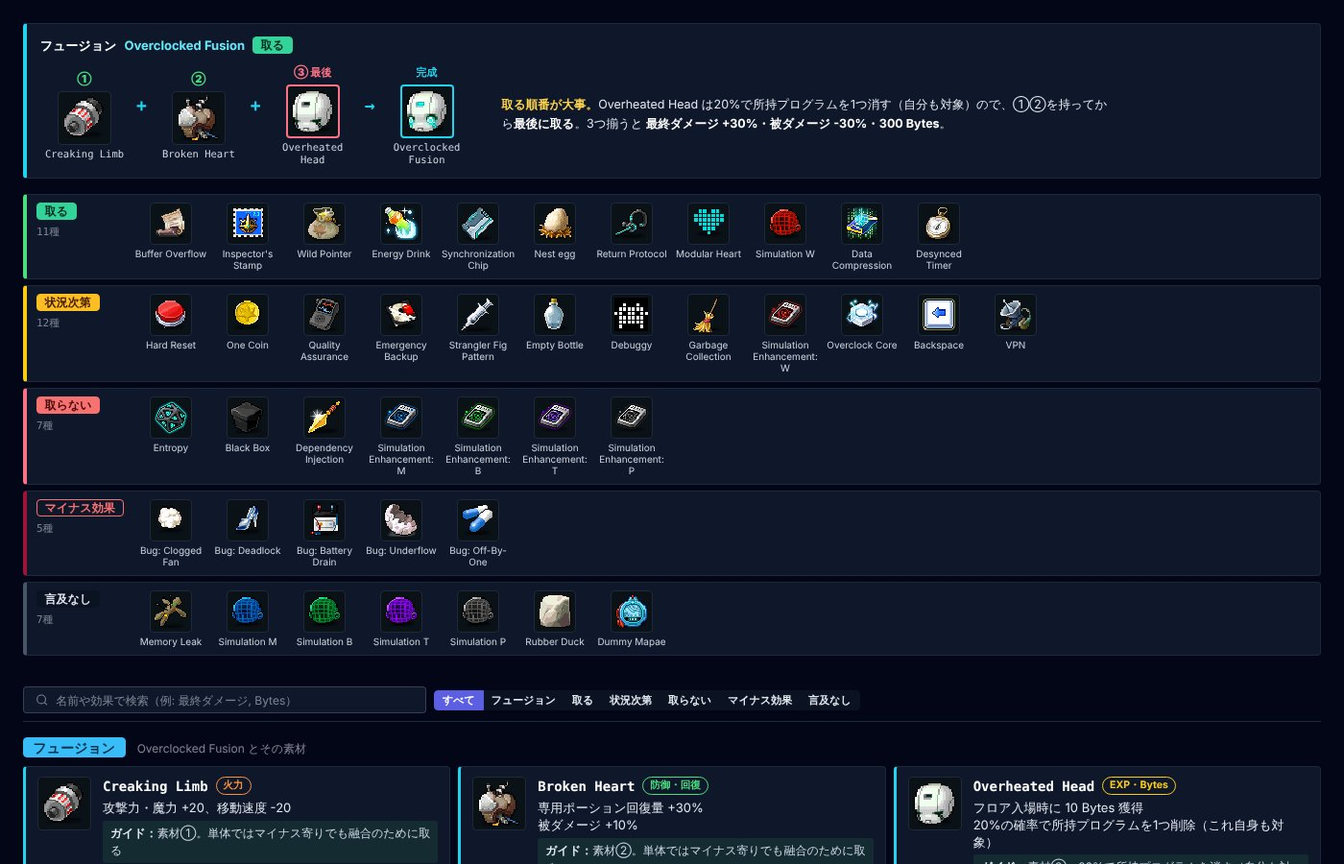
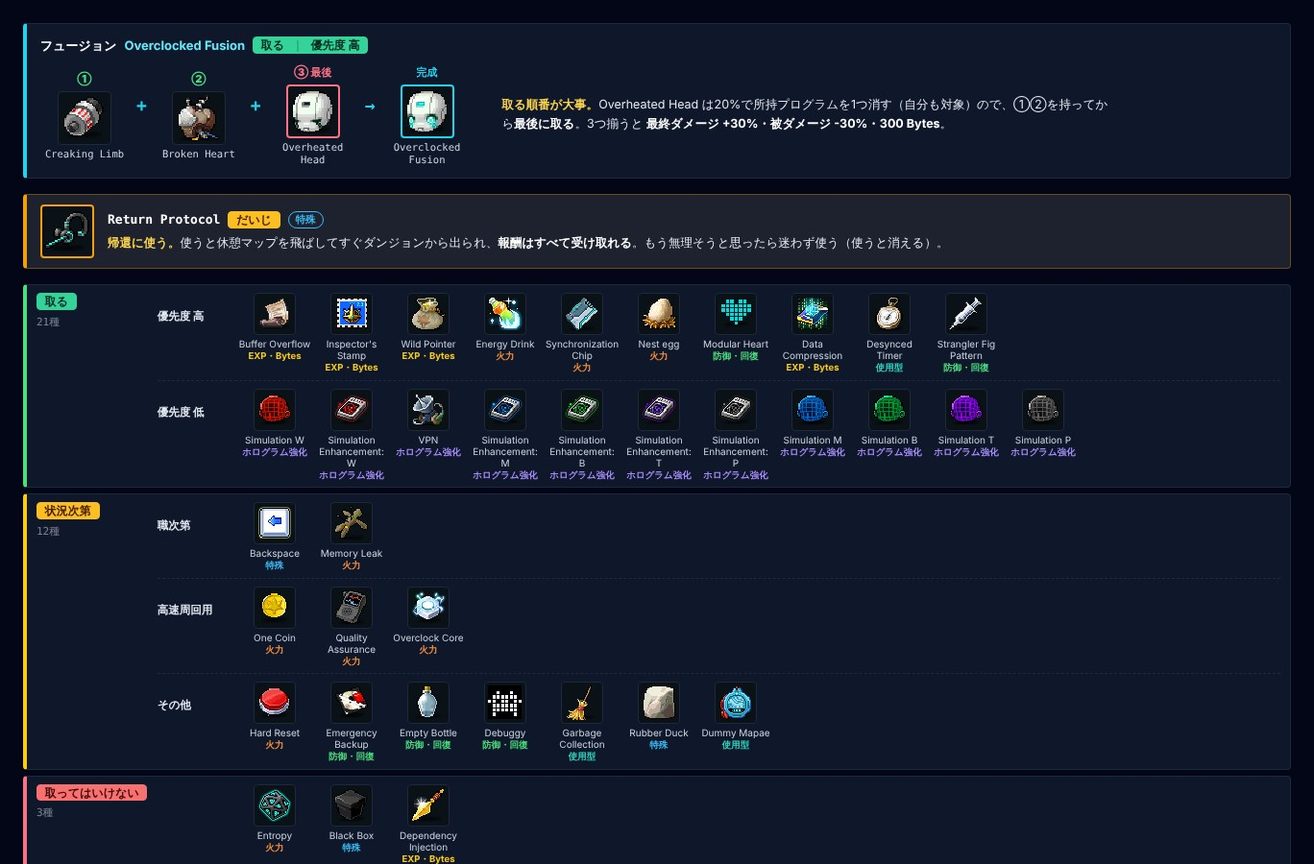
Quanah Tools バトルシム: 分類を bi 指定に組み替え、系統タグを一覧に、Return Protocol を別枠に
- 取る（優先度 高・低）／状況次第（職次第・高速周回用・その他）／取ってはいけない／マイナス効果。言及なしの段は廃止
- 上の一覧のアイコンの下に系統タグ。ホログラム→ホログラム強化、特殊・使用型を 特殊／使用型 に分け、使用型は Dummy Mapae・Garbage Collection・Desynced Timer だけ
- Return Protocol は帰還に使うので、フュージョンの下に「だいじ」枠で表示
- 狭い画面では段の見出しを上に。Guide の説明とスクショ 19、README を更新

Claude-Session: https://claude.ai/code/session_01VfuuungApVwhHvPPZNJUXm

diff --git a/public/libae_battlesim.js b/public/libae_battlesim.js
@@ -1,73 +1,87 @@
 /**
  * Quanah Tools の「バトルシム」タブ: Quanah のダンジョン Battlesim で手に入るプログラム全46種の図鑑。
- * bi の単体版「Quanah バトルシム プログラム図鑑」（2026-11-16）を移植。評価は Shapaz さんのダンジョン解説動画（Quanah ガイドまとめ 3章）、
+ * bi の単体版「Quanah バトルシム プログラム図鑑」（2026-11-16）を移植。分類は bi の判断（2026-11-17）、カードのガイド欄は Shapaz さんのダンジョン解説動画（Quanah ガイドまとめ 3章）、
  * アイコンと効果は masonym.dev の Quanah データ（GMS クライアントから抽出、2026-11-15 版）。名前は GMS の英語表記のまま。
  * アイコンは public/assets/libae/battlesim/<icon>.png。
  */
 const libaeBattlesim = (() => {
-    // v = 評価（fus フュージョン素材／take 取る／cond 状況次第／avoid 取らない／bug マイナス効果／none 言及なし）
-    // cat = 種類（atk 火力／def 防御・回復／holo ホログラム／res EXP・Bytes／util 特殊・使用型／bug バグ）
+    // v = 分類（2026-11-17 bi 指定）。fus フュージョン素材／key だいじ（Return Protocol、上に別枠）／
+    //     取る: hi 優先度 高・lo 優先度 低／状況次第: job 職次第・speed 高速周回用・other その他／avoid 取ってはいけない／bug マイナス効果
+    // cat = 系統（atk 火力／def 防御・回復／holo ホログラム強化／res EXP・Bytes／util 特殊／use 使用型（使うと消費。Dummy Mapae・Garbage Collection・Desynced Timer だけ、bi 確認）／bug バグ）
     // gc = ガイドの評価、note = 元の一覧と値が違う項目の注記、tip = ゲーム内のツールチップ名
     const PROGRAMS = [
         {"v": "fus", "name": "Creaking Limb", "icon": "creaking-limb", "cat": "atk", "eff": ["攻撃力・魔力 +20、移動速度 -20"], "gc": "素材①。単体ではマイナス寄りでも融合のために取る", "note": "手元の一覧では +10（+20表記あり）。データは +20"},
         {"v": "fus", "name": "Broken Heart", "icon": "broken-heart", "cat": "def", "eff": ["専用ポーション回復量 +30%", "被ダメージ +10%"], "gc": "素材②。単体ではマイナス寄りでも融合のために取る"},
         {"v": "fus", "name": "Overheated Head", "icon": "overheated-head", "cat": "res", "eff": ["フロア入場時に 10 Bytes 獲得", "20%の確率で所持プログラムを1つ削除（これ自身も対象）"], "gc": "素材③。20%で所持プログラムを消す（自分も対象）ので必ず最後に取る"},
         {"v": "fus", "name": "Overclocked Fusion", "icon": "overclocked-fusion", "cat": "res", "eff": ["被ダメージ -30%、最終ダメージ +30%", "入手時に 300 Bytes 獲得"], "gc": "素材3つが揃うと自動で手に入る"},
-        {"v": "take", "name": "Buffer Overflow", "icon": "buffer-overflow", "cat": "res", "eff": ["まだ持っていないプログラムを入手するたびに 20 / 30 / 50 Bytes 獲得"], "gc": "Bytes収入系。序盤の最優先。ショップやボス後のルートルームでオーブなどを買えるかがBytesの育ち方で決まる"},
-        {"v": "take", "name": "Inspector's Stamp", "icon": "inspector-s-stamp", "cat": "res", "eff": ["獲得Bytes +30 / 50 / 100%"], "gc": "Bytes収入系。序盤の最優先"},
-        {"v": "take", "name": "Wild Pointer", "icon": "wild-pointer", "cat": "res", "eff": ["入手時に即 50 Bytes 獲得", "一度所持すると再出現しない"], "gc": "取得時にBytesが入る系。序盤の最優先枠"},
-        {"v": "take", "name": "Energy Drink", "icon": "energy-drink", "cat": "atk", "eff": ["フロア入場時、10秒間 攻撃力・魔力 +100%"], "gc": "序盤では最強クラス。フロアに入った瞬間に敵を吹き飛ばせる。バフ持続時間が長いキャラほど強い"},
-        {"v": "take", "name": "Synchronization Chip", "icon": "synchronization-chip", "cat": "atk", "eff": ["現在のセクター数1つにつき最終ダメージ +4%（最大10セクター分）"], "gc": "最終ダメージが付く系。見たら取って損なし"},
-        {"v": "take", "name": "Nest egg", "icon": "nest-egg", "cat": "atk", "eff": ["所持Bytes 70ごとに最終ダメージ +3%（最大20回）"], "gc": "1,400 Bytesで最大+60%。後半フロアの本命。Bytes収入系とセットで真価を発揮"},
-        {"v": "take", "name": "Return Protocol", "icon": "return-protocol", "cat": "util", "eff": ["使用すると休憩マップを飛ばして即座にダンジョンから退出できる", "報酬はすべて受け取れる。使用すると消える"], "gc": "いつでも離脱して戦利品を持ち帰れる保険。もう無理そうと思ったら迷わず使う", "note": "手元の一覧では特殊アイテム扱い。データ上はプログラム（使用型）"},
-        {"v": "take", "name": "Modular Heart", "icon": "modular-heart", "cat": "def", "eff": ["被ダメージ -3 / 6 / 9 / 12%"], "gc": "ユーザー判断で「取る」に分類（ガイドでの言及なし）"},
-        {"v": "take", "name": "Simulation W", "icon": "simulation-w", "cat": "holo", "eff": ["ホログラムスキルで攻撃時、投影された戦士が [Hologram] Worldreaver を使用し [Hologram] Format を発動", "投影の Format からも [Hologram] Defrag が発動可能"], "gc": "ユーザー判断で「取る」に分類（ガイドでの言及なし）。Type系の投影は互いに上書きされるので、投影は1種に絞る", "tip": "Type-W Projection"},
-        {"v": "take", "name": "Data Compression", "icon": "data-compression", "cat": "res", "eff": ["獲得EXP +10 / 20 / 30 / 40%"], "gc": "ユーザー判断で「取る」に分類（ガイドでの言及なし）", "note": "手元の一覧の +10% は1段階目の値"},
-        {"v": "take", "name": "Desynced Timer", "icon": "desynced-timer", "cat": "util", "eff": ["5次以下のスキルのクールタイムをリセット", "使用するたびに1つ消費"], "gc": "ユーザー判断で「取る」に分類（ガイドでの言及なし）", "note": "手元の一覧では「コード」として別枠。データ上はプログラム（使用型）"},
-        {"v": "cond", "name": "Hard Reset", "icon": "hard-reset", "cat": "atk", "eff": ["入手した瞬間に、その時点の所持プログラムをすべて削除", "削除した数1つにつき最終ダメージ +5%（再入手すると再発動）"], "gc": "所持数×最終ダメージ+5%（19個なら+95%）。取り直せるので深く潜るランほど強い。中くらいのフロアで切り上げるなら不要"},
-        {"v": "cond", "name": "One Coin", "icon": "one-coin", "cat": "atk", "eff": ["最大HPが50%に固定される代わりに最終ダメージ +30%"], "gc": "強いがリスクも大きい。スペックに余裕が出てから"},
-        {"v": "cond", "name": "Quality Assurance", "icon": "quality-assurance", "cat": "atk", "eff": ["被弾しない時間10秒ごとに最終ダメージ +3%（最大5スタック）", "被弾でリセット"], "gc": "被弾しなければ最終ダメージが伸びる系。状況次第で可", "note": "手元の一覧では最大Lv3。データ上は重ね取りの段階値なし"},
-        {"v": "cond", "name": "Emergency Backup", "icon": "emergency-backup", "cat": "def", "eff": ["HPが30%を切ると最大HPの 20 / 30 / 70% を即回復", "クールタイム 120秒"], "gc": "回復系。継戦がきついときに", "note": "手元の一覧では回復量20%のみ。データでは重ね取りで 20/30/70%"},
-        {"v": "cond", "name": "Strangler Fig Pattern", "icon": "strangler-fig-pattern", "cat": "def", "eff": ["モンスター撃破時、20 / 40 / 60% の確率でHPを5%回復"], "gc": "回復系。継戦がきついときに", "note": "手元の一覧では「10%で3%回復」。データは 20/40/60% で5%回復"},
-        {"v": "cond", "name": "Empty Bottle", "icon": "empty-bottle", "cat": "def", "eff": ["専用ポーション回復量 +90%"], "gc": "回復系。継戦がきついときに", "note": "手元の一覧では「回復量が40%に」。データは回復量 +90%"},
-        {"v": "cond", "name": "Debuggy", "icon": "debuggy", "cat": "def", "eff": ["死亡時にHP100%で復活", "発動すると消える"], "gc": "死亡時のクッション系。状況次第で可"},
-        {"v": "cond", "name": "Garbage Collection", "icon": "garbage-collection", "cat": "util", "eff": ["10秒間無敵", "使用すると消費"], "gc": "無敵化系は「ボスで苦戦するときの保険」くらいの評価", "note": "手元の一覧では「コード」として別枠。データ上はプログラム（使用型）"},
-        {"v": "cond", "name": "Simulation Enhancement: W", "icon": "simulation-enhancement-w", "cat": "holo", "eff": ["投影戦士の [Hologram] Worldreaver ダメージ +10 / 20 / 30%"], "gc": "Jailbreak系は優先度最下位クラスだが、大範囲の戦士タイプ（Type-W）だけは例外的にまだマシ", "tip": "Type-W Jailbreak"},
-        {"v": "cond", "name": "Overclock Core", "icon": "overclock-core", "cat": "atk", "eff": ["最終ダメージ +8 / 10 / 12%", "被ダメージ +5 / 10 / 15%"], "gc": "ユーザー判断で「状況次第」に分類（ガイドでの言及なし）"},
-        {"v": "cond", "name": "Backspace", "icon": "backspace", "cat": "util", "eff": ["10 / 20 / 30% の確率でスキルのクールタイムが即リセット"], "gc": "ユーザー判断で「状況次第」に分類（ガイドでの言及なし）"},
-        {"v": "cond", "name": "VPN", "icon": "vpn", "cat": "holo", "eff": ["[Hologram] Registry の再付着時間 -1 / 2 / 3秒"], "gc": "ユーザー判断で「状況次第」に分類（ガイドでの言及なし）", "note": "手元の一覧の -1.0秒は1段階目の値。重ね取りで -2 / -3秒"},
+        {"v": "hi", "name": "Buffer Overflow", "icon": "buffer-overflow", "cat": "res", "eff": ["まだ持っていないプログラムを入手するたびに 20 / 30 / 50 Bytes 獲得"], "gc": "Bytes収入系。序盤の最優先。ショップやボス後のルートルームでオーブなどを買えるかがBytesの育ち方で決まる"},
+        {"v": "hi", "name": "Inspector's Stamp", "icon": "inspector-s-stamp", "cat": "res", "eff": ["獲得Bytes +30 / 50 / 100%"], "gc": "Bytes収入系。序盤の最優先"},
+        {"v": "hi", "name": "Wild Pointer", "icon": "wild-pointer", "cat": "res", "eff": ["入手時に即 50 Bytes 獲得", "一度所持すると再出現しない"], "gc": "取得時にBytesが入る系。序盤の最優先枠"},
+        {"v": "hi", "name": "Energy Drink", "icon": "energy-drink", "cat": "atk", "eff": ["フロア入場時、10秒間 攻撃力・魔力 +100%"], "gc": "序盤では最強クラス。フロアに入った瞬間に敵を吹き飛ばせる。バフ持続時間が長いキャラほど強い"},
+        {"v": "hi", "name": "Synchronization Chip", "icon": "synchronization-chip", "cat": "atk", "eff": ["現在のセクター数1つにつき最終ダメージ +4%（最大10セクター分）"], "gc": "最終ダメージが付く系。見たら取って損なし"},
+        {"v": "hi", "name": "Nest egg", "icon": "nest-egg", "cat": "atk", "eff": ["所持Bytes 70ごとに最終ダメージ +3%（最大20回）"], "gc": "1,400 Bytesで最大+60%。後半フロアの本命。Bytes収入系とセットで真価を発揮"},
+        {"v": "key", "name": "Return Protocol", "icon": "return-protocol", "cat": "util", "eff": ["使用すると休憩マップを飛ばして即座にダンジョンから退出できる", "報酬はすべて受け取れる。使用すると消える"], "gc": "帰還用。いつでも離脱して戦利品を持ち帰れる保険。もう無理そうと思ったら迷わず使う", "note": "手元の一覧では特殊アイテム扱い。データ上はプログラム"},
+        {"v": "hi", "name": "Modular Heart", "icon": "modular-heart", "cat": "def", "eff": ["被ダメージ -3 / 6 / 9 / 12%"], "gc": "ユーザー判断で「取る」に分類（ガイドでの言及なし）"},
+        {"v": "lo", "name": "Simulation W", "icon": "simulation-w", "cat": "holo", "eff": ["ホログラムスキルで攻撃時、投影された戦士が [Hologram] Worldreaver を使用し [Hologram] Format を発動", "投影の Format からも [Hologram] Defrag が発動可能"], "gc": "ユーザー判断で「取る（優先度 低）」に分類（ガイドでの言及なし）。Type系の投影は互いに上書きされるので、投影は1種に絞る", "tip": "Type-W Projection"},
+        {"v": "hi", "name": "Data Compression", "icon": "data-compression", "cat": "res", "eff": ["獲得EXP +10 / 20 / 30 / 40%"], "gc": "ユーザー判断で「取る」に分類（ガイドでの言及なし）", "note": "手元の一覧の +10% は1段階目の値"},
+        {"v": "hi", "name": "Desynced Timer", "icon": "desynced-timer", "cat": "use", "eff": ["5次以下のスキルのクールタイムをリセット", "使用するたびに1つ消費"], "gc": "ユーザー判断で「取る」に分類（ガイドでの言及なし）", "note": "手元の一覧では「コード」として別枠。データ上はプログラム（使用型）"},
+        {"v": "other", "name": "Hard Reset", "icon": "hard-reset", "cat": "atk", "eff": ["入手した瞬間に、その時点の所持プログラムをすべて削除", "削除した数1つにつき最終ダメージ +5%（再入手すると再発動）"], "gc": "所持数×最終ダメージ+5%（19個なら+95%）。取り直せるので深く潜るランほど強い。中くらいのフロアで切り上げるなら不要"},
+        {"v": "speed", "name": "One Coin", "icon": "one-coin", "cat": "atk", "eff": ["最大HPが50%に固定される代わりに最終ダメージ +30%"], "gc": "強いがリスクも大きい。スペックに余裕が出てから"},
+        {"v": "speed", "name": "Quality Assurance", "icon": "quality-assurance", "cat": "atk", "eff": ["被弾しない時間10秒ごとに最終ダメージ +3%（最大5スタック）", "被弾でリセット"], "gc": "被弾しなければ最終ダメージが伸びる系。状況次第で可", "note": "手元の一覧では最大Lv3。データ上は重ね取りの段階値なし"},
+        {"v": "other", "name": "Emergency Backup", "icon": "emergency-backup", "cat": "def", "eff": ["HPが30%を切ると最大HPの 20 / 30 / 70% を即回復", "クールタイム 120秒"], "gc": "回復系。継戦がきついときに", "note": "手元の一覧では回復量20%のみ。データでは重ね取りで 20/30/70%"},
+        {"v": "hi", "name": "Strangler Fig Pattern", "icon": "strangler-fig-pattern", "cat": "def", "eff": ["モンスター撃破時、20 / 40 / 60% の確率でHPを5%回復"], "gc": "回復系。ガイドでは「継戦がきついときに」だが、ユーザー判断で「取る（優先度 高）」に分類", "note": "手元の一覧では「10%で3%回復」。データは 20/40/60% で5%回復"},
+        {"v": "other", "name": "Empty Bottle", "icon": "empty-bottle", "cat": "def", "eff": ["専用ポーション回復量 +90%"], "gc": "回復系。継戦がきついときに", "note": "手元の一覧では「回復量が40%に」。データは回復量 +90%"},
+        {"v": "other", "name": "Debuggy", "icon": "debuggy", "cat": "def", "eff": ["死亡時にHP100%で復活", "発動すると消える"], "gc": "死亡時のクッション系。状況次第で可"},
+        {"v": "other", "name": "Garbage Collection", "icon": "garbage-collection", "cat": "use", "eff": ["10秒間無敵", "使用すると消費"], "gc": "無敵化系は「ボスで苦戦するときの保険」くらいの評価", "note": "手元の一覧では「コード」として別枠。データ上はプログラム（使用型）"},
+        {"v": "lo", "name": "Simulation Enhancement: W", "icon": "simulation-enhancement-w", "cat": "holo", "eff": ["投影戦士の [Hologram] Worldreaver ダメージ +10 / 20 / 30%"], "gc": "Jailbreak系は優先度最下位クラスだが、大範囲の戦士タイプ（Type-W）だけは例外的にまだマシ", "tip": "Type-W Jailbreak"},
+        {"v": "speed", "name": "Overclock Core", "icon": "overclock-core", "cat": "atk", "eff": ["最終ダメージ +8 / 10 / 12%", "被ダメージ +5 / 10 / 15%"], "gc": "ユーザー判断で分類（ガイドでの言及なし）"},
+        {"v": "job", "name": "Backspace", "icon": "backspace", "cat": "util", "eff": ["10 / 20 / 30% の確率でスキルのクールタイムが即リセット"], "gc": "ユーザー判断で分類（ガイドでの言及なし）"},
+        {"v": "lo", "name": "VPN", "icon": "vpn", "cat": "holo", "eff": ["[Hologram] Registry の再付着時間 -1 / 2 / 3秒"], "gc": "ユーザー判断で「取る（優先度 低）」に分類（ガイドでの言及なし）", "note": "手元の一覧の -1.0秒は1段階目の値。重ね取りで -2 / -3秒"},
         {"v": "avoid", "name": "Entropy", "icon": "entropy", "cat": "atk", "eff": ["最終ダメージ +50%", "フロア入場時、30%の確率で [Disorder] が1スタック", "[Disorder] が3スタックになるとダンジョンから自動退出"], "gc": "フロアに入るたび30%でスタックが溜まり、3つで強制退出。死亡扱いではないので復活系も効かない"},
         {"v": "avoid", "name": "Black Box", "icon": "black-box", "cat": "util", "eff": ["入手した瞬間にランダムなプログラムを3つ獲得し、所持プログラムからランダムに2つ削除（再入手すると再発動）"], "gc": "3つもらえる代わりに自分のプログラムが2つ消える。大事なものを消されるリスクが見合わない"},
         {"v": "avoid", "name": "Dependency Injection", "icon": "dependency-injection", "cat": "res", "eff": ["フロア入場時に 50 Bytes を消費し、次のどちらかを得る", "・アイテムドロップ率 +40%、獲得EXP +10%", "・獲得EXP +40%、アイテムドロップ率 +10%", "Bytesが足りないと発動しない"], "gc": "毎フロア50 Bytes払う系。序盤は厳禁。ルートルームで買い物するBytesが足りなくなる。収入が育った後半向け"},
-        {"v": "avoid", "name": "Simulation Enhancement: M", "icon": "simulation-enhancement-m", "cat": "holo", "eff": ["投影魔法使いの [Hologram] Bolt Barrage ダメージ +10 / 20 / 30%"], "gc": "Jailbreak系（ホログラム投影の強化）。火力が低く優先度は最下位クラス", "tip": "Type-M Jailbreak"},
-        {"v": "avoid", "name": "Simulation Enhancement: B", "icon": "simulation-enhancement-b", "cat": "holo", "eff": ["投影弓使いの [Hologram] Ultimate Snipe ダメージ +10 / 20 / 30%"], "gc": "Jailbreak系。火力が低く優先度は最下位クラス", "tip": "Type-B Jailbreak"},
-        {"v": "avoid", "name": "Simulation Enhancement: T", "icon": "simulation-enhancement-t", "cat": "holo", "eff": ["投影盗賊の [Hologram] Shurrikane ダメージ +10 / 20 / 30%"], "gc": "Jailbreak系。火力が低く優先度は最下位クラス", "tip": "Type-T Jailbreak"},
-        {"v": "avoid", "name": "Simulation Enhancement: P", "icon": "simulation-enhancement-p", "cat": "holo", "eff": ["投影海賊の [Hologram] Rolling Rainbow ダメージ +10 / 20 / 30%"], "gc": "Jailbreak系。火力が低く優先度は最下位クラス", "tip": "Type-P Jailbreak"},
+        {"v": "lo", "name": "Simulation Enhancement: M", "icon": "simulation-enhancement-m", "cat": "holo", "eff": ["投影魔法使いの [Hologram] Bolt Barrage ダメージ +10 / 20 / 30%"], "gc": "Jailbreak系（ホログラム投影の強化）。ガイドでは火力が低く優先度は最下位クラスだが、ユーザー判断で「取る（優先度 低）」に分類", "tip": "Type-M Jailbreak"},
+        {"v": "lo", "name": "Simulation Enhancement: B", "icon": "simulation-enhancement-b", "cat": "holo", "eff": ["投影弓使いの [Hologram] Ultimate Snipe ダメージ +10 / 20 / 30%"], "gc": "Jailbreak系。ガイドでは優先度最下位クラス。ユーザー判断で「取る（優先度 低）」に分類", "tip": "Type-B Jailbreak"},
+        {"v": "lo", "name": "Simulation Enhancement: T", "icon": "simulation-enhancement-t", "cat": "holo", "eff": ["投影盗賊の [Hologram] Shurrikane ダメージ +10 / 20 / 30%"], "gc": "Jailbreak系。ガイドでは優先度最下位クラス。ユーザー判断で「取る（優先度 低）」に分類", "tip": "Type-T Jailbreak"},
+        {"v": "lo", "name": "Simulation Enhancement: P", "icon": "simulation-enhancement-p", "cat": "holo", "eff": ["投影海賊の [Hologram] Rolling Rainbow ダメージ +10 / 20 / 30%"], "gc": "Jailbreak系。ガイドでは優先度最下位クラス。ユーザー判断で「取る（優先度 低）」に分類", "tip": "Type-P Jailbreak"},
         {"v": "bug", "name": "Bug: Clogged Fan", "icon": "bug-clogged-fan", "cat": "bug", "eff": ["最終ダメージ -5%"]},
         {"v": "bug", "name": "Bug: Deadlock", "icon": "bug-deadlock", "cat": "bug", "eff": ["移動速度 -20"], "tip": "Bug: Glass Slippers"},
         {"v": "bug", "name": "Bug: Battery Drain", "icon": "bug-battery-drain", "cat": "bug", "eff": ["獲得EXP -20%"], "tip": "Bug: Empty Battery"},
         {"v": "bug", "name": "Bug: Underflow", "icon": "bug-underflow", "cat": "bug", "eff": ["獲得Bytes -20%"], "tip": "Bug: Goose Egg"},
         {"v": "bug", "name": "Bug: Off-By-One", "icon": "bug-off-by-one", "cat": "bug", "eff": ["選べるプログラムの数 -1"], "tip": "Bug: Blue Pill"},
-        {"v": "none", "name": "Memory Leak", "icon": "memory-leak", "cat": "atk", "eff": ["所持プログラム1つにつき最終ダメージ +1%（最大20）", "10秒ごとに最大HPの3%が減少"]},
-        {"v": "none", "name": "Simulation M", "icon": "simulation-m", "cat": "holo", "eff": ["ホログラムスキルで攻撃時、投影された魔法使いが [Hologram] Bolt Barrage を使用し [Hologram] Format を発動", "投影の Format からも [Hologram] Defrag が発動可能"], "gc": "ガイドでの言及なし。Type系の投影は互いに上書きされるので全部は集められない", "tip": "Type-M Projection"},
-        {"v": "none", "name": "Simulation B", "icon": "simulation-b", "cat": "holo", "eff": ["ホログラムスキルで攻撃時、投影された弓使いが [Hologram] Ultimate Snipe を使用し [Hologram] Format を発動", "投影の Format からも [Hologram] Defrag が発動可能"], "gc": "ガイドでの言及なし。Type系の投影は互いに上書きされるので全部は集められない", "tip": "Type-B Projection"},
-        {"v": "none", "name": "Simulation T", "icon": "simulation-t", "cat": "holo", "eff": ["ホログラムスキルで攻撃時、投影された盗賊が [Hologram] Shurrikane を使用し [Hologram] Format を発動", "投影の Format からも [Hologram] Defrag が発動可能"], "gc": "ガイドでの言及なし。Type系の投影は互いに上書きされるので全部は集められない", "tip": "Type-T Projection"},
-        {"v": "none", "name": "Simulation P", "icon": "simulation-p", "cat": "holo", "eff": ["ホログラムスキルで攻撃時、投影された海賊が [Hologram] Rolling Rainbow を使用し [Hologram] Format を発動", "投影の Format からも [Hologram] Defrag が発動可能"], "gc": "ガイドでの言及なし。Type系の投影は互いに上書きされるので全部は集められない", "tip": "Type-P Projection"},
-        {"v": "none", "name": "Rubber Duck", "icon": "rubber-duck", "cat": "util", "eff": ["効果は一切なし"], "note": "手元の一覧ではコード枠にも同名あり。データ上はプログラム1種のみ"},
-        {"v": "none", "name": "Dummy Mapae", "icon": "dummy-mapae", "cat": "util", "eff": ["命中した敵を5秒間スタン", "ボスを含め15体まで適用。使用すると消費"]},
+        {"v": "job", "name": "Memory Leak", "icon": "memory-leak", "cat": "atk", "eff": ["所持プログラム1つにつき最終ダメージ +1%（最大20）", "10秒ごとに最大HPの3%が減少"]},
+        {"v": "lo", "name": "Simulation M", "icon": "simulation-m", "cat": "holo", "eff": ["ホログラムスキルで攻撃時、投影された魔法使いが [Hologram] Bolt Barrage を使用し [Hologram] Format を発動", "投影の Format からも [Hologram] Defrag が発動可能"], "gc": "ユーザー判断で「取る（優先度 低）」に分類（ガイドでの言及なし）。Type系の投影は互いに上書きされるので全部は集められない", "tip": "Type-M Projection"},
+        {"v": "lo", "name": "Simulation B", "icon": "simulation-b", "cat": "holo", "eff": ["ホログラムスキルで攻撃時、投影された弓使いが [Hologram] Ultimate Snipe を使用し [Hologram] Format を発動", "投影の Format からも [Hologram] Defrag が発動可能"], "gc": "ユーザー判断で「取る（優先度 低）」に分類（ガイドでの言及なし）。Type系の投影は互いに上書きされるので全部は集められない", "tip": "Type-B Projection"},
+        {"v": "lo", "name": "Simulation T", "icon": "simulation-t", "cat": "holo", "eff": ["ホログラムスキルで攻撃時、投影された盗賊が [Hologram] Shurrikane を使用し [Hologram] Format を発動", "投影の Format からも [Hologram] Defrag が発動可能"], "gc": "ユーザー判断で「取る（優先度 低）」に分類（ガイドでの言及なし）。Type系の投影は互いに上書きされるので全部は集められない", "tip": "Type-T Projection"},
+        {"v": "lo", "name": "Simulation P", "icon": "simulation-p", "cat": "holo", "eff": ["ホログラムスキルで攻撃時、投影された海賊が [Hologram] Rolling Rainbow を使用し [Hologram] Format を発動", "投影の Format からも [Hologram] Defrag が発動可能"], "gc": "ユーザー判断で「取る（優先度 低）」に分類（ガイドでの言及なし）。Type系の投影は互いに上書きされるので全部は集められない", "tip": "Type-P Projection"},
+        {"v": "other", "name": "Rubber Duck", "icon": "rubber-duck", "cat": "util", "eff": ["効果は一切なし"], "note": "手元の一覧ではコード枠にも同名あり。データ上はプログラム1種のみ"},
+        {"v": "other", "name": "Dummy Mapae", "icon": "dummy-mapae", "cat": "use", "eff": ["命中した敵を5秒間スタン", "ボスを含め15体まで適用。使用すると消費"]},
     ];
+    // 分類。group は上の大きな区分（取る／状況次第）、sub はその中の小区分。
     const VERDICTS = [
         { id: 'fus', label: 'フュージョン', badge: 'badge-info', border: '#22d3ee', meta: 'Overclocked Fusion とその素材' },
-        { id: 'take', label: '取る', badge: 'badge-success', border: '#4ade80', meta: 'ガイドが優先して取りたいとしているもの' },
-        { id: 'cond', label: '状況次第', badge: 'badge-warning', border: '#facc15', meta: '条件が合えば取る。ガイドの評価は「状況次第で可」' },
-        { id: 'avoid', label: '取らない', badge: 'badge-error', border: '#fb7185', meta: 'ガイドが避けた方がいいとしているもの' },
-        { id: 'bug', label: 'マイナス効果', badge: 'badge-error badge-outline', border: '#9f1239', meta: '効果がマイナスだけのバグ枠。ガイドでの言及はなし' },
-        { id: 'none', label: '言及なし', badge: 'badge-ghost', border: '#475569', meta: 'ガイドで評価されていないもの。効果だけ載せています' },
+        { id: 'key', label: 'だいじ', badge: 'badge-warning', border: '#f59e0b', meta: '帰還に使う。いつでも取れるように' },
+        { id: 'hi', group: 'take', sub: '優先度 高', label: '取る', badge: 'badge-success', border: '#4ade80', meta: '見たら取る' },
+        { id: 'lo', group: 'take', sub: '優先度 低', label: '取る', badge: 'badge-success badge-soft', border: '#4ade80', meta: '取れるなら取る。上の「高」を優先' },
+        { id: 'job', group: 'cond', sub: '職次第', label: '状況次第', badge: 'badge-warning badge-soft', border: '#facc15', meta: '職業によって強さが変わる' },
+        { id: 'speed', group: 'cond', sub: '高速周回用', label: '状況次第', badge: 'badge-warning badge-soft', border: '#facc15', meta: '火力が足りていて速く回したいとき' },
+        { id: 'other', group: 'cond', sub: 'その他', label: '状況次第', badge: 'badge-warning badge-soft', border: '#facc15', meta: '必要に応じて' },
+        { id: 'avoid', label: '取ってはいけない', badge: 'badge-error', border: '#fb7185', meta: '取ると損をするもの' },
+        { id: 'bug', label: 'マイナス効果', badge: 'badge-error badge-outline', border: '#9f1239', meta: '効果がマイナスだけのバグ枠' },
     ];
     const VMAP = Object.fromEntries(VERDICTS.map((v) => [v.id, v]));
+    // 絞り込みボタンと上の一覧の段。取る・状況次第は小区分をまとめて1つ
+    const GROUPS = [
+        { id: 'fus', label: 'フュージョン', vs: ['fus'] },
+        { id: 'take', label: '取る', vs: ['hi', 'lo'] },
+        { id: 'cond', label: '状況次第', vs: ['job', 'speed', 'other'] },
+        { id: 'avoid', label: '取ってはいけない', vs: ['avoid'] },
+        { id: 'bug', label: 'マイナス効果', vs: ['bug'] },
+    ];
+    const groupOf = (v) => (GROUPS.find((g) => g.vs.includes(v)) || { id: v }).id;
     const CATS = {
-        atk: { label: '火力', color: '#fb923c' }, def: { label: '防御・回復', color: '#4ade80' }, holo: { label: 'ホログラム', color: '#a78bfa' },
-        res: { label: 'EXP・Bytes', color: '#facc15' }, util: { label: '特殊・使用型', color: '#38bdf8' }, bug: { label: 'バグ（マイナス効果）', color: '#fb7185' },
+        atk: { label: '火力', color: '#fb923c' }, def: { label: '防御・回復', color: '#4ade80' }, holo: { label: 'ホログラム強化', color: '#a78bfa' },
+        res: { label: 'EXP・Bytes', color: '#facc15' }, util: { label: '特殊', color: '#38bdf8' }, use: { label: '使用型', color: '#2dd4bf' }, bug: { label: 'バグ', color: '#fb7185' },
     };
     const PERKS = [
         ['from__future__import', '1ランで15種類のプログラムを集める', 'ラン開始時にプログラムを1つ付与'],
@@ -77,33 +91,55 @@ const libaeBattlesim = (() => {
     const ICON_DIR = 'assets/libae/battlesim/';
     const byName = Object.fromEntries(PROGRAMS.map((p) => [p.name, p]));
     const esc = (s) => String(s).replace(/[&<>"']/g, (c) => ({ '&': '&amp;', '<': '&lt;', '>': '&gt;', '"': '&quot;', "'": '&#39;' }[c]));
-    const vBadge = (id, extra = '') => `<span class="badge badge-sm font-bold ${VMAP[id].badge} ${extra}">${VMAP[id].label}</span>`;
+    // 取る・状況次第は「取る｜優先度 高」のように小区分まで出す
+    const vBadge = (id, extra = '') => { const v = VMAP[id]; return `<span class="badge badge-sm font-bold ${v.badge} ${extra}">${v.label}${v.sub ? `<span class="opacity-50 font-normal">｜</span>${v.sub}` : ''}</span>`; };
+    const catTag = (p) => `<span class="bs-cat" style="color:${CATS[p.cat].color}">${esc(CATS[p.cat].label)}</span>`;
     const img = (p, size, cls = '') => `<img class="bs-ico ${cls}" src="${ICON_DIR}${p.icon}.png" alt="" width="${size}" height="${size}" loading="lazy">`;
     const searchText = (p) => [p.name, p.tip || '', ...p.eff, p.gc || '', p.note || '', CATS[p.cat].label].join(' ').toLowerCase();
 
     // 絞り込みの状態（タブを切り替えても残す）
     let filter = 'all', query = '';
-    const matches = (p) => (filter === 'all' || p.v === filter) && (!query || searchText(p).includes(query));
+    // Return Protocol（だいじ）は「取る」で絞り込んだときも出す
+    const matches = (p) => (filter === 'all' || groupOf(p.v) === filter || (filter === 'take' && p.v === 'key')) && (!query || searchText(p).includes(query));
 
     function fusionHTML() {
         const steps = [['Creaking Limb', '①'], ['Broken Heart', '②'], ['Overheated Head', '③ 最後']];
         const fig = (p, step, cls) => `<button type="button" class="bs-fig ${cls}" data-bs-go="${esc(p.name)}" title="${esc(p.name)} の説明へ"><span class="bs-step">${step}</span>${img(p, 48)}<span class="bs-figname">${esc(p.name)}</span></button>`;
         const parts = steps.map(([n, s], i) => fig(byName[n], s, i === 2 ? 'bs-last' : '')).join('<span class="bs-op">+</span>');
         return `<section class="bs-fusion">
-            <div class="flex items-center gap-2"><span class="text-[13px] font-black text-white">フュージョン</span><span class="text-[13px] font-bold text-cyan-300">Overclocked Fusion</span>${vBadge('take')}</div>
+            <div class="flex items-center gap-2"><span class="text-[13px] font-black text-white">フュージョン</span><span class="text-[13px] font-bold text-cyan-300">Overclocked Fusion</span>${vBadge('hi')}</div>
             <div class="flex flex-wrap items-center gap-x-8 gap-y-2 mt-2">
             <div class="flex flex-wrap items-center gap-2">${parts}<span class="bs-op">→</span>${fig(byName['Overclocked Fusion'], '完成', 'bs-done')}</div>
             <p class="text-[12.5px] leading-relaxed flex-1 min-w-[260px] max-w-[640px]"><b class="text-amber-300">取る順番が大事。</b>Overheated Head は20%で所持プログラムを1つ消す（自分も対象）ので、①②を持ってから<b class="text-white">最後に取る</b>。3つ揃うと <b class="text-white">最終ダメージ +30%・被ダメージ -30%・300 Bytes</b>。</p>
             </div>
         </section>`;
     }
+    // Return Protocol は帰還に使うので、フュージョンの下に別枠で目立たせる（bi 指定）
+    function keyHTML() {
+        return PROGRAMS.filter((p) => p.v === 'key').map((p) => `<section class="bs-key">
+            <button type="button" class="shrink-0" data-bs-go="${esc(p.name)}" title="${esc(p.name)} の説明へ">${img(p, 56)}</button>
+            <div class="min-w-0 flex flex-col gap-1">
+                <div class="flex flex-wrap items-center gap-2"><span class="text-[13px] font-black text-white font-mono">${esc(p.name)}</span>${vBadge('key')}${catTag(p)}</div>
+                <p class="text-[12.5px] leading-relaxed"><b class="text-amber-300">帰還に使う。</b>使うと休憩マップを飛ばしてすぐダンジョンから出られ、<b class="text-white">報酬はすべて受け取れる</b>。もう無理そうと思ったら迷わず使う（使うと消える）。</p>
+            </div>
+        </section>`).join('');
+    }
+    function tileHTML(p) {
+        return `<button type="button" class="bs-tile" data-bs-go="${esc(p.name)}" title="${esc(p.name)} の説明へ">${img(p, 40)}<span>${esc(p.name)}</span><i class="bs-tcat" style="color:${CATS[p.cat].color}">${esc(CATS[p.cat].label)}</i></button>`;
+    }
     function boardHTML() {
         let h = '<section class="bs-board">';
-        VERDICTS.filter((v) => v.id !== 'fus').forEach((v) => {
-            const ps = PROGRAMS.filter((p) => p.v === v.id);
-            h += `<div class="bs-brow" style="border-left-color:${v.border}">
-                <div class="bs-blabel">${vBadge(v.id)}<span class="font-mono text-[11px] text-base-content/50">${ps.length}種</span></div>
-                <div class="bs-tiles">${ps.map((p) => `<button type="button" class="bs-tile" data-bs-go="${esc(p.name)}" title="${esc(p.name)} の説明へ">${img(p, 40)}<span>${esc(p.name)}</span></button>`).join('')}</div>
+        GROUPS.filter((g) => g.id !== 'fus').forEach((g) => {
+            const subs = g.vs.map((id) => VMAP[id]);
+            const n = PROGRAMS.filter((p) => g.vs.includes(p.v)).length;
+            h += `<div class="bs-brow" style="border-left-color:${subs[0].border}">
+                <div class="bs-blabel"><span class="badge badge-sm font-bold whitespace-nowrap ${subs[0].badge.replace(' badge-soft', '')}">${esc(g.label)}</span><span class="font-mono text-[11px] text-base-content/50">${n}種</span></div>
+                <div class="flex flex-col gap-2 min-w-0">${subs.map((v) => {
+                    const ps = PROGRAMS.filter((p) => p.v === v.id);
+                    const tiles = `<div class="bs-tiles">${ps.map(tileHTML).join('')}</div>`;
+                    // 小区分のない段も同じ幅の空き列を取り、全段でアイコンの左端をそろえる
+                    return `<div class="bs-sub"><span class="bs-sublabel">${esc(v.sub || '')}</span>${tiles}</div>`;
+                }).join('')}</div>
             </div>`;
         });
         return h + '</section>';
@@ -112,15 +148,14 @@ const libaeBattlesim = (() => {
         const btn = (id, label) => `<button type="button" class="btn btn-xs join-item ${filter === id ? 'btn-primary' : ''}" data-bs-filter="${id}" aria-pressed="${filter === id}">${label}</button>`;
         return `<div class="bs-toolbar">
             <label class="input input-sm flex-1 min-w-[200px] max-w-[420px]"><i data-lucide="search" class="w-3.5 h-3.5 opacity-50"></i><input type="search" data-bs-q value="${esc(query)}" placeholder="名前や効果で検索（例: 最終ダメージ, Bytes）" aria-label="プログラムを検索"></label>
-            <div class="join flex-wrap" role="group" aria-label="評価で絞り込み">${btn('all', 'すべて')}${VERDICTS.map((v) => btn(v.id, v.label)).join('')}</div>
+            <div class="join flex-wrap" role="group" aria-label="分類で絞り込み">${btn('all', 'すべて')}${GROUPS.map((g) => btn(g.id, g.label)).join('')}</div>
         </div>`;
     }
     function cardHTML(p) {
-        const c = CATS[p.cat];
         return `<article class="bs-card bs-v-${p.v}" id="bs-${p.icon}" data-bs-card="${esc(p.name)}" ${matches(p) ? '' : 'hidden'}>
             ${img(p, 56, 'shrink-0')}
             <div class="min-w-0 flex flex-col gap-1">
-                <div class="flex flex-wrap items-center gap-x-2 gap-y-0.5"><h3 class="text-[14px] font-black text-white font-mono">${esc(p.name)}</h3><span class="bs-cat" style="color:${c.color}">${esc(c.label)}</span>${p.tip ? `<span class="text-[11px] text-base-content/50">ツールチップ名: ${esc(p.tip)}</span>` : ''}</div>
+                <div class="flex flex-wrap items-center gap-x-2 gap-y-0.5"><h3 class="text-[14px] font-black text-white font-mono">${esc(p.name)}</h3>${catTag(p)}${p.tip ? `<span class="text-[11px] text-base-content/50">ツールチップ名: ${esc(p.tip)}</span>` : ''}</div>
                 <p class="text-[13px] text-slate-200 leading-snug">${p.eff.map(esc).join('<br>')}</p>
                 ${p.gc ? `<p class="bs-gc"><b>ガイド：</b>${esc(p.gc)}</p>` : ''}
                 ${p.note ? `<p class="bs-note">${esc(p.note)}</p>` : ''}
@@ -143,7 +178,7 @@ const libaeBattlesim = (() => {
         const box = 'card card-sm bg-base-100 border border-base-content/10 px-4 py-3';
         return `<div class="grid gap-4 xl:grid-cols-2 items-start">
             <section><h3 class="lg-h"><i data-lucide="link"></i>出典</h3><div class="${box} text-[12px] leading-relaxed">
-                <p><b class="text-white">評価：</b>Shapaz「クアナダンジョン プログラムガイド/ヒント」（Quanah ガイドまとめ 3章）。動画の自動字幕が不安定で、ガイドは効果ベースで書かれているため、プログラム名への当てはめは効果から判断しています。</p>
+                <p><b class="text-white">分類：</b>Bijyon の判断（2026-11-17）。各カードの「ガイド」欄は Shapaz「クアナダンジョン プログラムガイド/ヒント」（Quanah ガイドまとめ 3章）。動画の自動字幕が不安定で、ガイドは効果ベースで書かれているため、プログラム名への当てはめは効果から判断しています。</p>
                 <p class="mt-1.5"><b class="text-white">アイコンと効果：</b><a href="https://github.com/masonym/masonym.dev/tree/main/public/quanah" target="_blank" rel="noreferrer" class="link link-hover text-indigo-300 font-bold">masonym.dev の Quanah データ</a>（GMS クライアントから抽出、2026-11-15 版）。黄色の注記は、元の一覧と値が違う項目です。</p>
                 <p class="mt-1.5 text-base-content/55">元の一覧で「コード」として別枠だった Desynced Timer・Garbage Collection・Rubber Duck、特殊アイテム扱いだった Return Protocol は、抽出データではプログラムとして登録されていたので図鑑に載せています。</p>
             </div></section>
@@ -155,7 +190,7 @@ const libaeBattlesim = (() => {
     }
     function html() {
         return `<div class="bs-root flex flex-col gap-4">
-            ${fusionHTML()}${boardHTML()}
+            ${fusionHTML()}${keyHTML()}${boardHTML()}
             ${toolbarHTML()}
             <div class="flex flex-col gap-5">${listHTML()}</div>
             ${footHTML()}

diff --git a/public/guide.js b/public/guide.js
@@ -31,11 +31,11 @@ const guide = {
                       '各ピースには判定が付きます。「自前で採用」（藍）は自前のみの組み合わせ、「全部で採用」（緑）は全部の組み合わせに入っているピースで、両方に入っていれば2つ並びます。組み合わせの見出しも同じ色です。「候補」は組み合わせで足りないスキルを含むので取っておくピースです。目標やピースを変えると付け直します。',
                       '「ジュエルを一括で」の Lv を押すと、装着中のジュエルを全部その Lv にします（空きソケットはそのまま）。',
                       '「ジュエル強化」で、Lv.5 までに要る素材の残りを、全体・色別・装備ごとに見られます。素材は同じ色のジュエルだけ使え、足りない分を Dust で買う量（カラー 500、プリズマティック 3,000）も出ます。',
-                      '「バトルシム」は、ダンジョン Battlesim で手に入るプログラム全46種の図鑑です。上にフュージョン（Overclocked Fusion）の取る順番と、評価（取る／状況次第／取らない／マイナス効果／言及なし）ごとのアイコン一覧があり、アイコンを押すとそのプログラムの説明に移ります。下の欄で名前や効果を検索したり、評価で絞り込んだりできます。評価は Shapaz さんのガイド動画、アイコンと効果は GMS クライアントから抽出したデータです。',
+                      '「バトルシム」は、ダンジョン Battlesim で手に入るプログラム全46種の図鑑です。上にフュージョン（Overclocked Fusion）の取る順番、帰還に使う Return Protocol、分類（取る＝優先度 高・低／状況次第＝職次第・高速周回用・その他／取ってはいけない／マイナス効果）ごとのアイコン一覧があり、アイコンの下は系統（火力・ホログラム強化・使用型など）です。アイコンを押すとそのプログラムの説明に移ります。下の欄で名前や効果を検索したり、分類で絞り込んだりできます。分類は Bijyon の判断、各カードのガイド欄は Shapaz さんのガイド動画、アイコンと効果は GMS クライアントから抽出したデータです。',
                       '強化コストが変わったら、「ジュエル強化」の下の「ジュエル設定」で直せます。「資料」にスキル・ジュエルの仕様と出典をまとめています。'],
               shots: [['14-libae-gear', '装備管理。左が6部位のスキルラインとジュエル（ラインの色は目標に対する判定）、右がスキルの合計 Lv と目標ライン'],
                       ['18-libae-pieces', '所有ピース。左が部位ごとの手持ちのピース、右がセットソルバーの組み合わせと、その組み合わせでの目標ライン'],
-                      ['19-libae-battlesim', 'バトルシム。フュージョンの取る順番と、評価ごとのプログラム一覧']],
+                      ['19-libae-battlesim', 'バトルシム。フュージョンの取る順番、帰還用の Return Protocol、分類ごとのプログラム一覧']],
               tip: '入力（装備・ジュエル設定・目標ライン・所有ピース）はこのブラウザに保存されます。別の端末に移すときは、下の「データ」で JSON を保存して、移した先で読み込みます。本家アプリで書き出した JSON も読み込めます。スキルの効果は PTS（10/29〜11/1）時点の情報です。' },
             { key: 'ultima', name: 'Ultima EXP Plan', one: 'ミッション・ウルティマの期間（11/11〜2/9）に、イベントのバフとパス・補給報告の報酬込みで、アカウントのキャラがいつどの Lv になるかを計算します。',
               steps: ['使い方は EXP Simulator の「アカウント計画」と同じです。初めて開いたときは、アカウント計画の中身（選んだキャラ・やること・持ち物）を写して始めます。ここで変えてもアカウント計画は変わりません。',

diff --git a/public/style.css b/public/style.css
@@ -692,24 +692,37 @@ body {
 .bs-figname { font-family: var(--font-mono, ui-monospace, monospace); font-size: 10.5px; line-height: 1.25; text-align: center; color: #cbd5e1; }
 .bs-op { font-family: ui-monospace, monospace; font-size: 18px; font-weight: 700; color: #22d3ee; margin-bottom: 18px; }
 .bs-board { display: flex; flex-direction: column; gap: 6px; }
-.bs-brow { display: grid; grid-template-columns: 92px minmax(0, 1fr); gap: 10px; align-items: start; background: #0f172a; border: 1px solid #1e293b; border-left: 4px solid #475569; border-radius: 4px; padding: 8px 10px; }
+.bs-brow { display: grid; grid-template-columns: 116px minmax(0, 1fr); gap: 10px; align-items: start; background: #0f172a; border: 1px solid #1e293b; border-left: 4px solid #475569; border-radius: 4px; padding: 8px 10px; }
 .bs-blabel { display: flex; flex-direction: column; align-items: flex-start; gap: 3px; }
 .bs-tiles { display: flex; flex-wrap: wrap; gap: 6px 4px; }
 .bs-tile { display: flex; flex-direction: column; align-items: center; gap: 3px; width: 76px; font-size: 10px; line-height: 1.2; text-align: center; color: #cbd5e1; cursor: pointer; }
 .bs-tile .bs-ico { width: 44px; height: 44px; }
+.bs-tcat { font-style: normal; font-size: 9.5px; font-weight: 700; line-height: 1; margin-top: -1px; }
+.bs-sub { display: grid; grid-template-columns: 76px minmax(0, 1fr); gap: 8px; align-items: start; }
+.bs-sub + .bs-sub { border-top: 1px dashed #1e293b; padding-top: 8px; }
+.bs-sublabel { font-size: 11.5px; font-weight: 800; color: #e2e8f0; padding-top: 14px; }
+.bs-key { display: flex; align-items: center; gap: 14px; background: color-mix(in oklab, #f59e0b 8%, #0f172a); border: 1px solid color-mix(in oklab, #f59e0b 35%, transparent); border-left: 4px solid #f59e0b; border-radius: 4px; padding: 10px 14px; }
+.bs-key .bs-ico { width: 56px; height: 56px; outline: 2px solid #f59e0b; outline-offset: -2px; }
+@media (max-width: 640px) {
+    .bs-brow { grid-template-columns: minmax(0, 1fr); }
+    .bs-blabel { flex-direction: row; align-items: center; gap: 8px; }
+    .bs-sub { grid-template-columns: minmax(0, 1fr); gap: 4px; }
+    .bs-sublabel { padding-top: 0; }
+    .bs-sublabel:empty { display: none; }
+}
 .bs-tile:hover span, .bs-tile:focus-visible span { color: #a5b4fc; }
 .bs-toolbar { position: sticky; top: 0; z-index: 5; display: flex; flex-wrap: wrap; align-items: center; gap: 8px; padding: 8px 0; background: #020617; border-bottom: 1px solid #1e293b; margin-top: 8px; box-shadow: 0 -24px 0 #020617; }
 .bs-grid { display: grid; grid-template-columns: repeat(auto-fill, minmax(min(100%, 420px), 1fr)); gap: 8px; }
 .bs-card { display: flex; gap: 12px; background: #0f172a; border: 1px solid #1e293b; border-left: 3px solid #475569; border-radius: 4px; padding: 10px 12px; scroll-margin-top: 72px; }
 .bs-card[hidden] { display: none; }
 .bs-card .bs-ico { width: 56px; height: 56px; }
-.bs-v-fus { border-left-color: #22d3ee; } .bs-v-take { border-left-color: #4ade80; } .bs-v-cond { border-left-color: #facc15; }
+.bs-v-fus { border-left-color: #22d3ee; } .bs-v-key { border-left-color: #f59e0b; } .bs-v-hi, .bs-v-lo { border-left-color: #4ade80; } .bs-v-job, .bs-v-speed, .bs-v-other { border-left-color: #facc15; }
 .bs-v-avoid { border-left-color: #fb7185; } .bs-v-bug { border-left-color: #9f1239; }
 .bs-cat { white-space: nowrap; font-size: 10.5px; font-weight: 700; padding: 0 7px; border: 1px solid currentColor; border-radius: 999px; line-height: 1.6; }
 .bs-gc { font-size: 12px; line-height: 1.5; padding: 4px 8px; border-radius: 3px; background: #1e293b; color: #cbd5e1; }
 .bs-gc b { color: #e2e8f0; }
-.bs-v-fus .bs-gc, .bs-v-take .bs-gc { background: rgba(74, 222, 128, .1); }
-.bs-v-cond .bs-gc { background: rgba(250, 204, 21, .1); }
+.bs-v-fus .bs-gc, .bs-v-key .bs-gc, .bs-v-hi .bs-gc, .bs-v-lo .bs-gc { background: rgba(74, 222, 128, .1); }
+.bs-v-job .bs-gc, .bs-v-speed .bs-gc, .bs-v-other .bs-gc { background: rgba(250, 204, 21, .1); }
 .bs-v-avoid .bs-gc { background: rgba(251, 113, 133, .1); }
 .bs-note { font-size: 11.5px; padding: 3px 8px; border-radius: 3px; background: rgba(245, 158, 11, .12); color: #fcd34d; }
 .bs-flash { animation: bs-flash 1.4s ease-out; }

diff --git a/README.md b/README.md
@@ -17,7 +17,7 @@ Cloudflare Worker + 静的アセットとして配信している。ビルド工
 | --- | --- | --- | --- |
 | Information | Journal（旧 News） | `updates` | `public/gms_updates.js`（GMS・KMSのアップデート告知の和訳と、Bijyon のコラム。上部バーの GMS／KMS と、少し離した Column で切り替え、その一覧（新しい順）が出る。コラムは `region: 'COLUMN'`、id は `col-` で始める。選んだ回は目次＋全訳の1ページで、目次から各節へ飛び、各節の「↑ 目次へ」で戻る。和訳の書き方は `.claude/skills/news-translation/SKILL.md`。各回の本文と画像は `public/updates/<id>/`。新しい回は `python3 -I tools/import_gms_update.py <和訳.html> <id>` で取り込み、`public/updates/list.json` の先頭に1件足す。過去の回は消さない。各回は `/#updates/<id>` で開け、回のページの「リンクをコピー」で渡す `/journal/<id>` は `worker.js` が Discord などのプレビュー（タイトル・概要・カバー画像）を返してから `/#updates/<id>` へ送る。一覧は `/#updates/gms`・`kms`・`column`） |
 | Information | Guide | `guide` | `public/guide.js`（使い方ガイド。アプリ一覧・基本の操作・アプリごとの説明とスクショ・よくある質問。スクショは `public/assets/guide/`。アプリを足したり画面を大きく変えたりしたら、文とスクショも直す） |
-| Event | Quanah Tools（旧 Libae's Gear） | `quanah`（旧 `libae` の URL も開ける） | `public/libae_gear.js`（Event World: Quanah の装備「Libae's Supercharged」6部位の [Hologram] スキルラインとジュエルを登録し、スキルの合計 Lv（装備は1スキル Lv.3 まで、ジュエル込みで Master Level 8）、ジュエルのステータス合計、Lv.5 までのジュエル強化の残り素材と Dust 換算を出す。上部バーの 装備管理／所有ピース／ジュエル強化／バトルシム／資料 で切り替え。バトルシムは `public/libae_battlesim.js`（ダンジョン Battlesim のプログラム46種の図鑑。評価は Shapaz さんのガイド、アイコンと効果は masonym.dev の抽出データ、アイコンは `public/assets/libae/battlesim/`）。目標ライン（18ラインの配分、初期値は isophi の 3L Set Solver の最適配分）に対して装備ラインを 寄与／超過／対象外 で判定し（「クリダメ・ボスダメはどちらでもよい」チェックで2つの目標を1行にまとめて数える）、所有ピースからは各部位1つずつ選んで目標に合う組み合わせを、自前のみ（ピースの「自前」チェック）と全部の2通りで探す（基準はジョブ攻撃5種を各1以上→目標の埋まり最大→超過最少の順、採用／候補）。数値はクライアントデータ、スキル効果は PTS 時点の情報で、定数はファイル先頭。保存はブラウザの `libae-gear-public-v1`・`libae-jewel-settings-public-v1`・`libae-skill-target-public-v1`・`libae-owned-pieces-public-v1`（単体版と同じキー）、JSON の書き出し・読み込みも単体版と同じ形（本家アプリの書き出しも読める）。Event グループは期間限定のイベント用のアプリを置く） |
+| Event | Quanah Tools（旧 Libae's Gear） | `quanah`（旧 `libae` の URL も開ける） | `public/libae_gear.js`（Event World: Quanah の装備「Libae's Supercharged」6部位の [Hologram] スキルラインとジュエルを登録し、スキルの合計 Lv（装備は1スキル Lv.3 まで、ジュエル込みで Master Level 8）、ジュエルのステータス合計、Lv.5 までのジュエル強化の残り素材と Dust 換算を出す。上部バーの 装備管理／所有ピース／ジュエル強化／バトルシム／資料 で切り替え。バトルシムは `public/libae_battlesim.js`（ダンジョン Battlesim のプログラム46種の図鑑。分類は bi の判断、カードのガイド欄は Shapaz さんのガイド、アイコンと効果は masonym.dev の抽出データ、アイコンは `public/assets/libae/battlesim/`）。目標ライン（18ラインの配分、初期値は isophi の 3L Set Solver の最適配分）に対して装備ラインを 寄与／超過／対象外 で判定し（「クリダメ・ボスダメはどちらでもよい」チェックで2つの目標を1行にまとめて数える）、所有ピースからは各部位1つずつ選んで目標に合う組み合わせを、自前のみ（ピースの「自前」チェック）と全部の2通りで探す（基準はジョブ攻撃5種を各1以上→目標の埋まり最大→超過最少の順、採用／候補）。数値はクライアントデータ、スキル効果は PTS 時点の情報で、定数はファイル先頭。保存はブラウザの `libae-gear-public-v1`・`libae-jewel-settings-public-v1`・`libae-skill-target-public-v1`・`libae-owned-pieces-public-v1`（単体版と同じキー）、JSON の書き出し・読み込みも単体版と同じ形（本家アプリの書き出しも読める）。Event グループは期間限定のイベント用のアプリを置く） |
 | Event | Ultima EXP Plan | `ultima` | `public/exp_ultima.js`（ミッション・ウルティマ GMS 2026-11-11〜2027-02-09 専用のアカウント計画。計算と画面は `public/exp_plan.js` の `expPlan` を引き継いだもので、保存は別（`mm-exp-ultima::<Planner の「自分」>`、初回だけアカウント計画の中身を写す）。ウルティマのバフ（エテリオン・レリック・特殊訓練）と Sunny Sunday のモンパを内蔵し、イベントバフ一覧の分を足すかはスイッチ。チャレンジャーパス・モメンタムパス・モメンタムパス PLUS の購入と受け取るキャラ、補給報告・Specter Blast（無料、Specter Blast は週1回で交換券 3,000 枚分）の受け取るキャラを選ぶと、報酬（上級EXP交換券・農場チケット・秘薬・サウナ券）がその日から入る。開始日より前に届いた分は使い終わった扱いで、未使用の数を品目ごとに入れると開始日に足す（`state.pass[id].left`）。中身と日付は GMS v.272 のパッチノートによるもの（モメンタムの2つは v.272 にないので KMS 実績からの見込み）で、ファイル先頭の `PASSES`・`BUFFS`・`ULTIMA_SUPPLY` に持つ。上級EXP交換券の量は `public/exp_data.js` の `expCouponExp`。イベントが終わったら APPS とサイドバーの行を外す） |
 | Tools | Character Manager | `planner` | `public/script.js` |
 | Tools | HEXA Tracker | `hexa` | `public/hexa_tracker.js`、`public/hexa_reader.js`（進捗入力の「ゲーム画面から読み取り」。HEXA Matrix の画面をスクショ・ライブ共有から読む。タイトルの位置だけ Tesseract.js で探し、ノードは固定の位置、Lvの小さな数字は形の照合で読む） |
